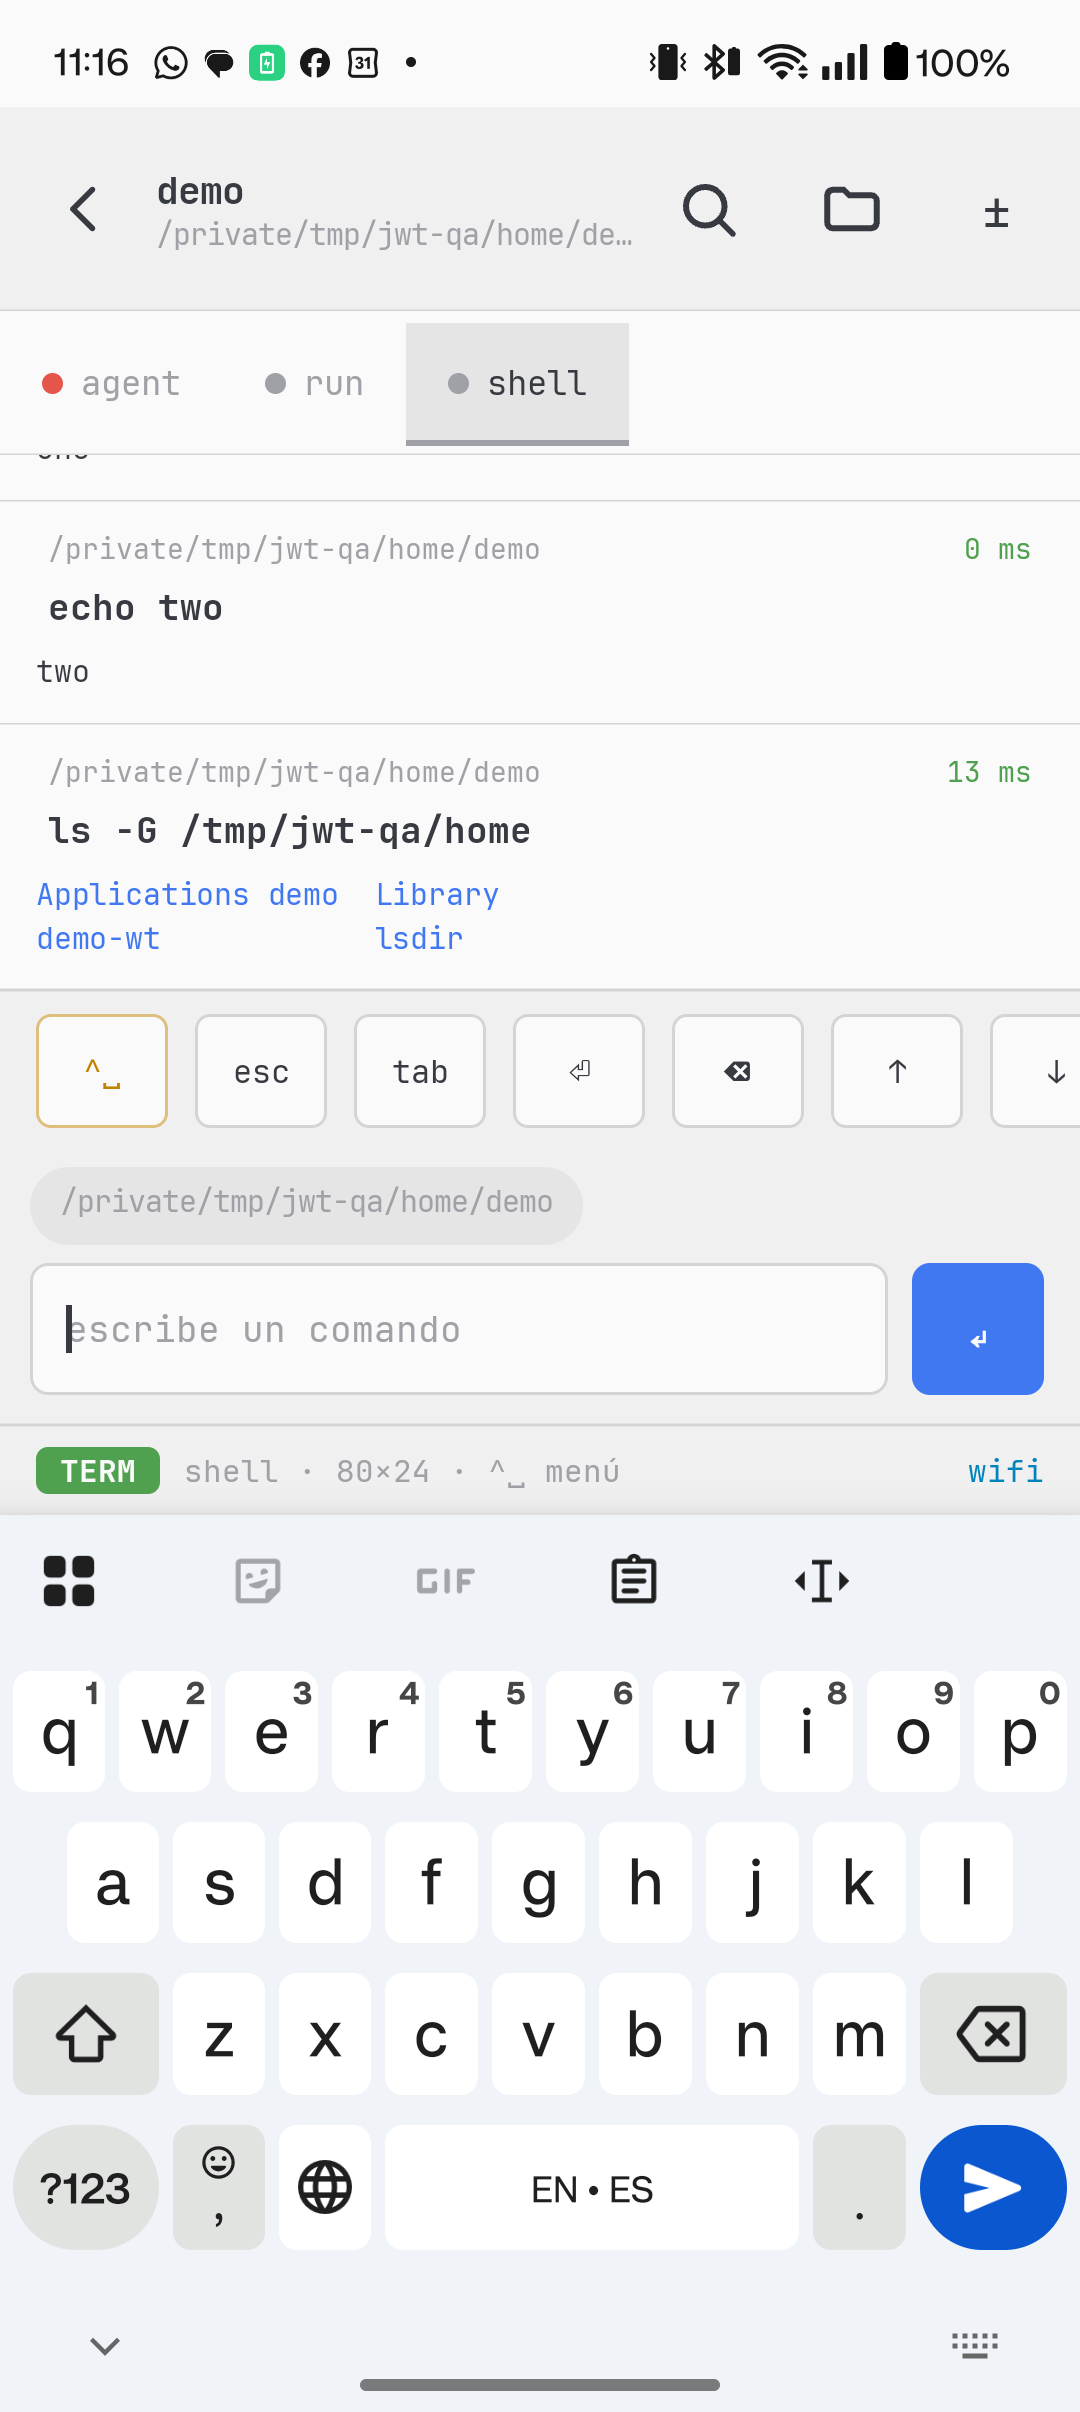
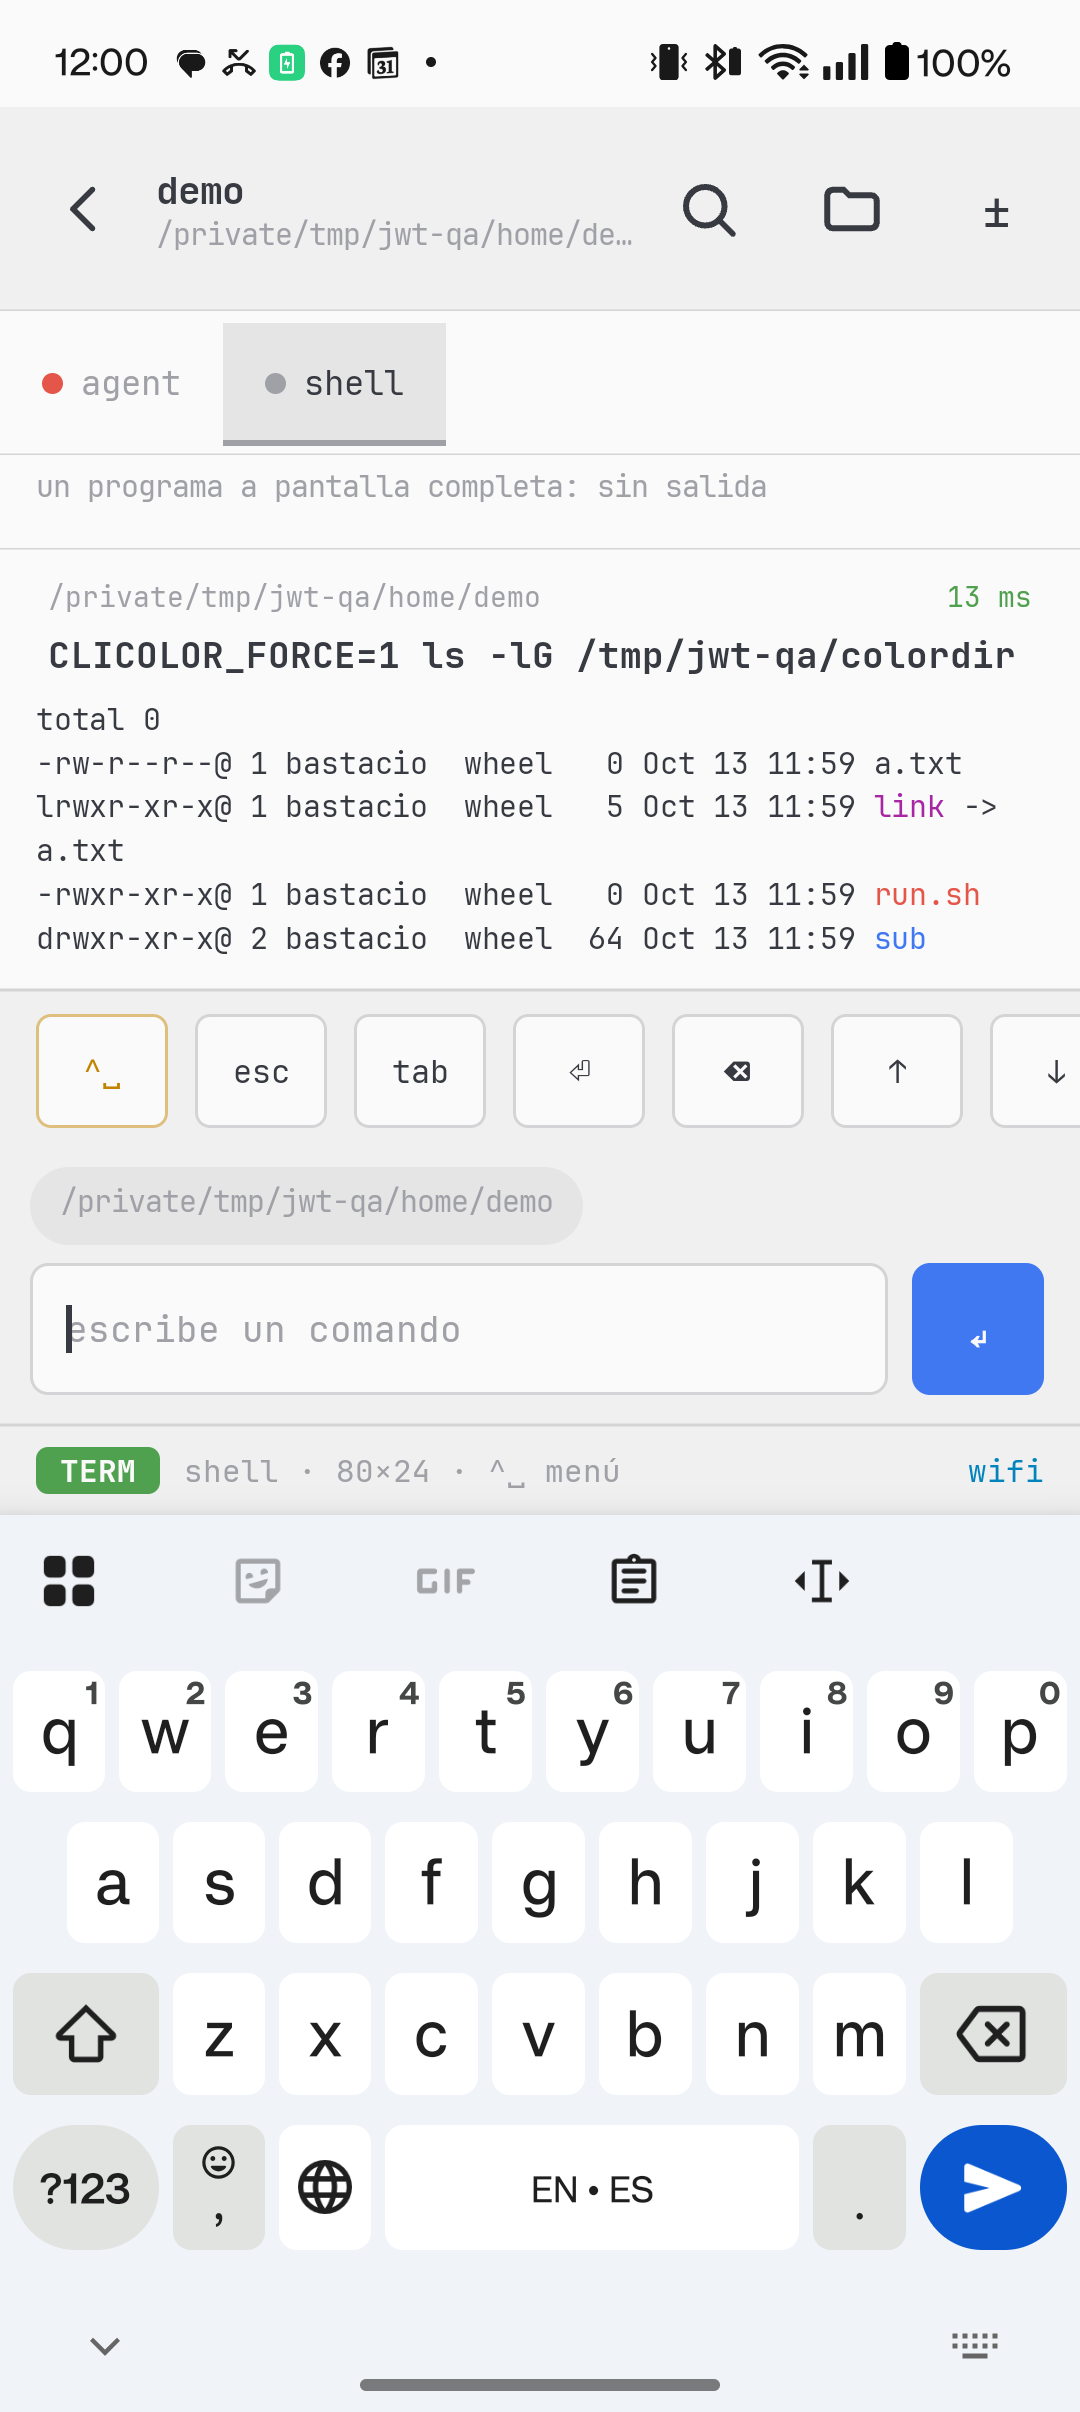
docs(qa): third run: remaining workspaces, agent and shell cases; B-28 to B-31

diff --git a/docs/qa/QA-REPORT.md b/docs/qa/QA-REPORT.md
@@ -7,10 +7,10 @@ Every row's evidence is under `docs/qa/evidence/<id>/`; per-case verdicts are in
 
 - **Workspaces and shell cases** ran against an isolated test daemon (`scripts/jw-test`, state `/tmp/jwt-qa`), killed by its own pid at the end.
 - **Agent cases** ran in a throwaway session `qa-test` of the user's real jw, by the user's decision, because Claude was not logged in under the test HOME and linking the keychain was refused. Only that session was touched; the phone driver (`q.py`) refused to tap or type outside it.
-- **75 of 106 checklist cases have a verdict** (pass, diff, fail, not-shown or inconclusive); 31 are `not-run` in `results.tsv`. Why those were left:
-  - not possible through adb: paste (S-17), text selection (S-24), typing on the PC side (S-03, S-04, A-03; the user's TUI cannot be driven safely);
-  - would change the user's real daemon or pairing: read-only toggle, revoke, pairing-failure screens (W-20, T-13, T-14, T-15), and the network-route fallback (T-02, T-03 need the tunnel or a daemon restart);
-  - not reached: S-07, S-23, W-07, W-08, W-15, W-18, W-19, A-05, A-06, A-07, A-09, A-11, A-13, A-14, T-10, M-24, M-27 to M-30.
+- **91 of 106 checklist cases have a verdict** (pass, diff, fail, not-shown or inconclusive); 15 are `not-run` in `results.tsv`:
+  - the owner excluded two groups: pairing/revoke/read-only/route cases (W-20, T-02, T-03, T-13, T-14, T-15) and anything that needs adb to paste, select or type on the PC (S-03, S-04, S-17, S-24, A-03);
+  - not built: A-14 (a chat of 400+ blocks, costly), M-24 (MCP / WebFetch), M-28 (permission prompt in a Claude with no hooks);
+  - inconclusive after trying: A-06 (text selection: adb long-press did not raise the toolbar; the code wraps the chat in a `SelectionContainer`), A-12 (queued message), M-25 (`!ls`), M-27 (`/resume` list on the PC side).
 - Latencies are coarse (see "Workspaces sync"): the driver adds seconds, so they bound the sync time from above and do not measure it.
 - Judgement calls the reader should know: the theme result (B-06) depends on the PC theme pair, which I did not inspect; B-12 (stray "-") may come from the keyboard.
 
@@ -23,7 +23,7 @@ Every row's evidence is under `docs/qa/evidence/<id>/`; per-case verdicts are in
 
 | id | sev | title | steps | expected | actual | evidence | REQ |
 |---|---|---|---|---|---|---|---|
-| B-19 | high | "y · aprobar" / "n · rechazar" buttons approve a plan or answer a question the person has not seen | a Claude pane waits on a plan (or a choice); look at the Home row and at Avisos | no y/n: REQ-20 allows them only for a plain yes/no permission, REQ-98 says "no approve or reject buttons" for plans and choices | the Home row shows live green "y · aprobar" and red "n · rechazar" under the waiting workspace, and Avisos shows y / n (dim) with the pane's name and no content. Tapping **y** on a pending plan accepted option 1, "Yes, and use auto mode": the plan ran and Claude was switched into auto mode, all without the plan ever being on the phone | AV-01/, AV-02/ | 20, 28, 98 |
+| B-19 | high | "y · aprobar" / "n · rechazar" buttons approve a plan or answer a question the person has not seen | a Claude pane waits on a plan (or a choice); look at the Home row and at Avisos | no y/n: REQ-20 allows them only for a plain yes/no permission, REQ-98 says "no approve or reject buttons" for plans and choices | the Home row shows live green "y · aprobar" and red "n · rechazar" under the waiting workspace, and Avisos shows y / n (dim) with the pane's name and no content. The default "Claude Code" quick-answer preset makes **y** send Enter, which accepts whatever option the cursor is on. Tapping **y** on a pending plan accepted option 1, "Yes, and use auto mode": the plan ran and Claude was switched into auto mode, all without the plan ever being on the phone | AV-01/, AV-02/ | 20, 28, 98 |
 | B-01 | high | App crashes when the system day/night mode changes inside a workspace | open any shell or agent workspace; `adb shell cmd uimode night yes` | theme change, no crash | `IllegalArgumentException: Mismatching scroller orientation; single-line, non-wrap text fields can only scroll horizontally` at `WorkspaceUi.kt:438` (Composer `BasicTextField`); the app closes. Reproduced 3 times (shell and agent); the home list survives. Auto day/night switching would trigger it in normal use | T-04/crash.txt | 17 |
 | B-02 | high | First-run Claude prompt is invisible and answered blind | new agent worktree whose folder Claude does not trust yet; open it on the phone | the "trust this folder" question and its options shown | agent chat reads "Sin mensajes todavía."; only the key row works. A blind Up, Down, Enter chose "No, exit" and the agent pane exited. Not seen under the real daemon (folder already trusted) | M-08/, M-08b/ | 94, 98 |
 | B-03 | medium | Screen-only Claude panels are not shown, and the pane stays inside them | send `/status` or `/config` from the phone | something shows the panel, or says Claude shows one | the chat stays as it was, no command bubble, no panel; the PC pane stays in the panel until Esc is sent from the key row | M-26/ | 94, 98 |
@@ -50,6 +50,10 @@ Every row's evidence is under `docs/qa/evidence/<id>/`; per-case verdicts are in
 | B-25 | low | `/compact` shows Claude's summary as the person's message and leaks ANSI | `/compact` in a chat | a notice or the summary as Claude's; clean output | the continuation summary ("This session is being continued…") is drawn as a right-hand user bubble; the output reads ".[2mCompacted (ctrl+o to see full summary).[22m" | M-23/ | 93, 94 |
 | B-26 | low | App reopens on another session and resets its place after a reconnect | close the app and reopen it (it opened on the user's `sales-assist` session, not `qa-test`); drop the network inside a chat | the last session and pane | opening on a different session is a hazard when several sessions hold real work; after a reconnect the app is back in the workspace but on its first tab, not the pane it was in | A-10/ | 15 |
 | B-27 | low | Image tool results show as "sin salida" | ask Claude to read a PNG | the image or a note that there is one | the card says "sin salida"; the image is not shown | M-20/ | 94 |
+| B-28 | medium | An exited agent pane looks alive | restart jw (or let an agent exit); open the workspace | something saying the agent ended | the chat keeps the old conversation, the composer reads "escribe a agent", the tab has a red dot; typing "hello" and sending shows nothing and goes nowhere | B-exited/ | 94, 99 |
+| B-29 | medium | After a jw restart, agent panes exit instead of resuming (PC side) | restart the daemon with agent workspaces open | the agents come back | the agent panes of `demo` and `qa-perm` were `exited 1`; the pane text says "Session ID … is already in use". Caveat: the project's start/resume commands were my wrapper script, which may have contributed | W-05/, B-nav/ | 15 |
+| B-30 | medium | Two hand-started Claudes in one folder show the same conversation | two `claude` panes (role `run`) in one workspace, each with its own prompt | each tab its own chat, tabs told apart | both tabs show the newest transcript (the one for the second pane), and both tabs are labelled "run" | A-13/ | 93, 94 |
+| B-31 | low | The `^␣` sheet has no greyed "en el PC" rows | open `^␣` in a workspace | rename, sync, remove, review listed greyed with "en el PC" | those four are not listed at all | W-07/ | 23 |
 
 ## Workspaces sync
 
@@ -113,7 +117,7 @@ Fail or diff: B-05, B-06, B-13, B-14, B-18, B-23. Not run: paste, selection, wid
 ## Transversal
 
 Pass: portrait lock holds against a landscape request (REQ-103); diff tab matches `git status` (3 files, counts right); Files and Markdown viewer; sessions sheet.
-Also pass: touch targets (no clickable under 48 dp on the main screens) and logcat hygiene on the fresh process. Fail: B-01, B-07, B-08, B-26.
+Also pass: touch targets (no clickable under 48 dp on the main screens) and logcat hygiene on the fresh process. Also pass: quick-answer presets (T-10), 5-minute idle sync (W-19), 16-row list, scroll and search (W-18). Fail: B-01, B-07, B-08, B-26.
 
 ## Recommendation
 
